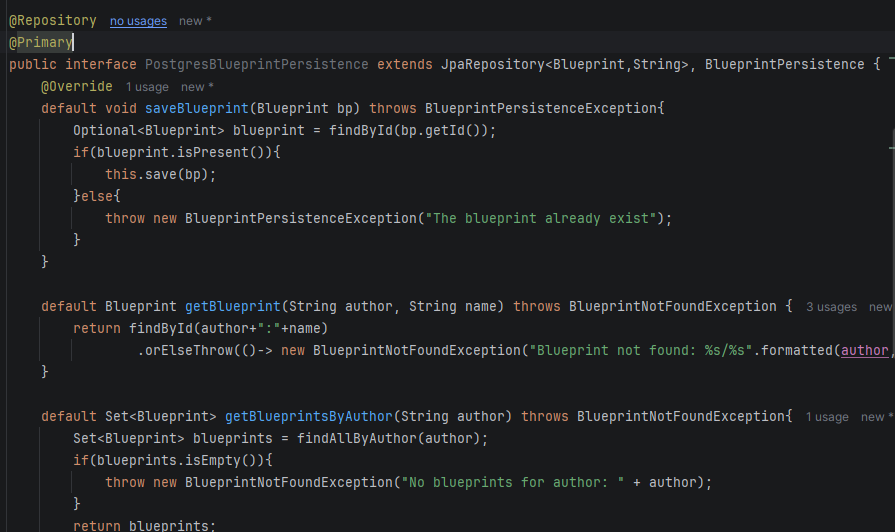
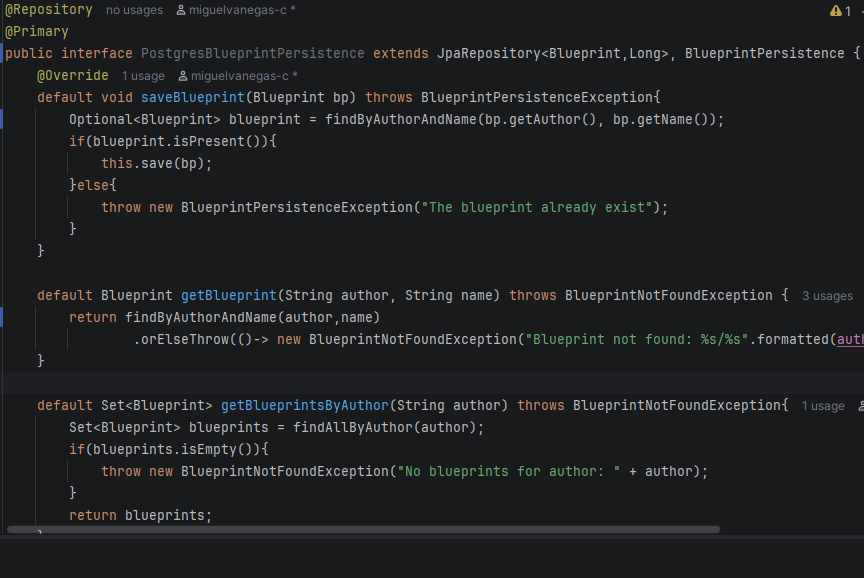
finish without test

diff --git a/src/main/java/edu/eci/arsw/blueprints/controllers/BlueprintsAPIController.java b/src/main/java/edu/eci/arsw/blueprints/controllers/BlueprintsAPIController.java
@@ -4,18 +4,19 @@ import edu.eci.arsw.blueprints.model.Blueprint;
 import edu.eci.arsw.blueprints.model.Point;
 import edu.eci.arsw.blueprints.persistence.exception.BlueprintNotFoundException;
 import edu.eci.arsw.blueprints.persistence.exception.BlueprintPersistenceException;
+import edu.eci.arsw.blueprints.response.ApiResponse;
 import edu.eci.arsw.blueprints.services.BlueprintsServices;
+import io.swagger.v3.oas.annotations.Operation;
 import jakarta.validation.Valid;
 import jakarta.validation.constraints.NotBlank;
 import org.springframework.http.HttpStatus;
-import org.springframework.http.ResponseEntity;
 import org.springframework.web.bind.annotation.*;
 
 import java.util.Map;
 import java.util.Set;
 
 @RestController
-@RequestMapping("/blueprints")
+@RequestMapping("/api/v1/blueprints")
 public class BlueprintsAPIController {
 
     private final BlueprintsServices services;
@@ -23,53 +24,62 @@ public class BlueprintsAPIController {
     public BlueprintsAPIController(BlueprintsServices services) { this.services = services; }
 
     // GET /blueprints
+    @Operation(summary = "Get all the blueprints in the system",
+            description = "Return a blueprint list")
+    @io.swagger.v3.oas.annotations.responses.ApiResponse(responseCode = "200", description = "Successful query")
     @GetMapping
-    public ResponseEntity<Set<Blueprint>> getAll() {
-        return ResponseEntity.ok(services.getAllBlueprints());
+    public ApiResponse<Set<Blueprint>> getAll() {
+        Set<Blueprint> blueprints = services.getAllBlueprints();
+        return new ApiResponse<Set<Blueprint>>(HttpStatus.OK.value(), "The query was successful.",blueprints);
     }
 
+    @io.swagger.v3.oas.annotations.responses.ApiResponse(responseCode = "200", description = "Successful query")
+    @io.swagger.v3.oas.annotations.responses.ApiResponse(responseCode = "404", description = "The author doesn't have blueprints")
+    @Operation(summary = "Get all the blueprints from an author",
+            description = "Return a blueprint list")
     // GET /blueprints/{author}
     @GetMapping("/{author}")
-    public ResponseEntity<?> byAuthor(@PathVariable String author) {
-        try {
-            return ResponseEntity.ok(services.getBlueprintsByAuthor(author));
-        } catch (BlueprintNotFoundException e) {
-            return ResponseEntity.status(HttpStatus.NOT_FOUND).body(Map.of("error", e.getMessage()));
-        }
+    public ApiResponse<Set<Blueprint>> byAuthor(@PathVariable String author) throws BlueprintNotFoundException{
+        Set<Blueprint> blueprints = services.getBlueprintsByAuthor(author);
+        return new ApiResponse<Set<Blueprint>>(HttpStatus.OK.value(), "The query was successful.",blueprints);
+
     }
 
+    @io.swagger.v3.oas.annotations.responses.ApiResponse(responseCode = "200", description = "Successful query")
+    @io.swagger.v3.oas.annotations.responses.ApiResponse(responseCode = "404", description = "The author doesn't have a blueprints with this name")
+    @Operation(summary = "Get a blueprint from an author and a specific name",
+            description = "Return a blueprint list")
     // GET /blueprints/{author}/{bpname}
     @GetMapping("/{author}/{bpname}")
-    public ResponseEntity<?> byAuthorAndName(@PathVariable String author, @PathVariable String bpname) {
-        try {
-            return ResponseEntity.ok(services.getBlueprint(author, bpname));
-        } catch (BlueprintNotFoundException e) {
-            return ResponseEntity.status(HttpStatus.NOT_FOUND).body(Map.of("error", e.getMessage()));
-        }
+    public ApiResponse<Blueprint> byAuthorAndName(@PathVariable String author, @PathVariable String bpname) throws BlueprintNotFoundException {
+        Blueprint blueprint = services.getBlueprint(author, bpname);
+        return new ApiResponse<Blueprint>(HttpStatus.OK.value(), "The query was successful.",blueprint);
+
     }
 
+    @io.swagger.v3.oas.annotations.responses.ApiResponse(responseCode = "200", description = "Successful query")
+    @io.swagger.v3.oas.annotations.responses.ApiResponse(responseCode = "400", description = "Can´t create the blueprint")
+    @Operation(summary = "Add a new blueprint",
+            description = "Return the blueprint that was added")
     // POST /blueprints
     @PostMapping
-    public ResponseEntity<?> add(@Valid @RequestBody NewBlueprintRequest req) {
-        try {
-            Blueprint bp = new Blueprint(req.author(), req.name(), req.points());
-            services.addNewBlueprint(bp);
-            return ResponseEntity.status(HttpStatus.CREATED).build();
-        } catch (BlueprintPersistenceException e) {
-            return ResponseEntity.status(HttpStatus.FORBIDDEN).body(Map.of("error", e.getMessage()));
-        }
+    public ApiResponse<Blueprint> add(@Valid @RequestBody NewBlueprintRequest req) throws BlueprintPersistenceException{
+        Blueprint bp = new Blueprint(req.author(), req.name(), req.points());
+        services.addNewBlueprint(bp);
+        return new ApiResponse<Blueprint>(HttpStatus.CREATED.value(),"The blueprint was created", bp);
     }
 
+    @io.swagger.v3.oas.annotations.responses.ApiResponse(responseCode = "200", description = "Successful query")
+    @io.swagger.v3.oas.annotations.responses.ApiResponse(responseCode = "400", description = "Can´t add the point")
+    @Operation(summary = "Add a point to a blueprints",
+            description = "Return if the operation was accepted")
     // PUT /blueprints/{author}/{bpname}/points
     @PutMapping("/{author}/{bpname}/points")
-    public ResponseEntity<?> addPoint(@PathVariable String author, @PathVariable String bpname,
-                                      @RequestBody Point p) {
-        try {
-            services.addPoint(author, bpname, p.getX(), p.getY());
-            return ResponseEntity.status(HttpStatus.ACCEPTED).build();
-        } catch (BlueprintNotFoundException e) {
-            return ResponseEntity.status(HttpStatus.NOT_FOUND).body(Map.of("error", e.getMessage()));
-        }
+    public ApiResponse<?> addPoint(@PathVariable String author, @PathVariable String bpname,
+                                      @RequestBody Point p) throws BlueprintNotFoundException{
+        services.addPoint(author, bpname, p.getX(), p.getY());
+        return new ApiResponse<>(HttpStatus.ACCEPTED.value(), "The point was added", null );
+
     }
 
     public record NewBlueprintRequest(

diff --git a/src/main/java/edu/eci/arsw/blueprints/persistence/blueprint/PostgresBlueprintPersistence.java b/src/main/java/edu/eci/arsw/blueprints/persistence/blueprint/PostgresBlueprintPersistence.java
@@ -15,10 +15,10 @@ import java.util.Set;
 
 @Repository
 @Primary
-public interface PostgresBlueprintPersistence extends JpaRepository<Blueprint,String>, BlueprintPersistence {
+public interface PostgresBlueprintPersistence extends JpaRepository<Blueprint,Long>, BlueprintPersistence {
     @Override
     default void saveBlueprint(Blueprint bp) throws BlueprintPersistenceException{
-        Optional<Blueprint> blueprint = findById(bp.getId());
+        Optional<Blueprint> blueprint = findByAuthorAndName(bp.getAuthor(), bp.getName());
         if(blueprint.isPresent()){
             this.save(bp);
         }else{
@@ -27,7 +27,7 @@ public interface PostgresBlueprintPersistence extends JpaRepository<Blueprint,St
     }
 
     default Blueprint getBlueprint(String author, String name) throws BlueprintNotFoundException {
-        return findById(author+":"+name)
+        return findByAuthorAndName(author,name)
                 .orElseThrow(()-> new BlueprintNotFoundException("Blueprint not found: %s/%s".formatted(author, name)));
     }
 
@@ -51,4 +51,5 @@ public interface PostgresBlueprintPersistence extends JpaRepository<Blueprint,St
         save(blueprint);
     }
     Set<Blueprint> findAllByAuthor(String author);
+    Optional<Blueprint> findByAuthorAndName(String author, String name);
 }

diff --git a/src/main/java/edu/eci/arsw/blueprints/response/ExceptionController.java b/src/main/java/edu/eci/arsw/blueprints/response/ExceptionController.java
@@ -1,0 +1,25 @@
+package edu.eci.arsw.blueprints.response;
+
+import edu.eci.arsw.blueprints.persistence.exception.BlueprintNotFoundException;
+import edu.eci.arsw.blueprints.persistence.exception.BlueprintPersistenceException;
+import org.springframework.http.HttpStatus;
+import org.springframework.web.bind.annotation.ExceptionHandler;
+import org.springframework.web.bind.annotation.RestControllerAdvice;
+
+@RestControllerAdvice
+public class ExceptionController {
+    @ExceptionHandler(BlueprintNotFoundException.class)
+    public ApiResponse<?> handleResponsibleNotFound(RuntimeException ex) {
+        return response(ex, HttpStatus.NOT_FOUND);
+    }
+
+    @ExceptionHandler(BlueprintPersistenceException.class)
+    public ApiResponse<?> handleResponsibleBadRequest(RuntimeException ex){
+        return response(ex, HttpStatus.BAD_REQUEST);
+    }
+
+    private ApiResponse<?> response(RuntimeException ex, HttpStatus status){
+        return new ApiResponse<String>(status.value(),"An exception occurred during execution.",ex.getMessage());
+    }
+
+}

diff --git a/src/main/java/edu/eci/arsw/blueprints/model/Blueprint.java b/src/main/java/edu/eci/arsw/blueprints/model/Blueprint.java
@@ -1,31 +1,27 @@
 package edu.eci.arsw.blueprints.model;
 
-import jakarta.persistence.Entity;
-import jakarta.persistence.GeneratedValue;
-import jakarta.persistence.Id;
-import jakarta.persistence.OneToMany;
-import lombok.AllArgsConstructor;
+import jakarta.persistence.*;
+
 import lombok.Data;
-import lombok.NoArgsConstructor;
+
 
 import java.util.ArrayList;
 import java.util.Collections;
 import java.util.List;
-import java.util.Objects;
+
 
 @Entity
 @Data
 public class Blueprint {
 
     @Id
-    private String id;
+    private Long id;
     private String author;
     private String name;
-    @OneToMany(mappedBy = "blueprint, cascade = cascade")
+    @OneToMany(mappedBy = "blueprint", cascade = CascadeType.ALL, orphanRemoval = true)
     private List<Point> points = new ArrayList<>();
 
     public Blueprint(String author, String name, List<Point> points){
-        this.id = author + ":" + name;
         this.author = author;
         this.name = name;
         this.points.addAll(points);

diff --git a/src/main/java/edu/eci/arsw/blueprints/filters/RedundancyFilter.java b/src/main/java/edu/eci/arsw/blueprints/filters/RedundancyFilter.java
@@ -22,7 +22,7 @@ public class RedundancyFilter implements BlueprintsFilter {
         List<Point> out = new ArrayList<>();
         Point prev = null;
         for (Point p : in) {
-            if (prev == null || !(prev.x()==p.x() && prev.y()==p.y())) {
+            if (prev == null || !(prev.getX()==p.getX() && prev.getY()==p.getY())) {
                 out.add(p);
                 prev = p;
             }

diff --git a/src/main/java/edu/eci/arsw/blueprints/response/ApiResponse.java b/src/main/java/edu/eci/arsw/blueprints/response/ApiResponse.java
@@ -1,0 +1,5 @@
+package edu.eci.arsw.blueprints.response;
+
+public record ApiResponse<T>(int code, String message, T data) {
+
+}

diff --git a/README.md b/README.md
@@ -106,13 +106,24 @@ src/main/java/edu/eci/arsw/blueprints
         como el desacople del sistema.
       ![PostgresBlueprintPersistence](img_5.png)
     
-    - También fue necesario realizar algunos cambios en las clases de Bluesprint y point para que la implementación funcione correctamente.
-        1. Se modifico primero 
-    
+    - También fue necesario realizar algunos cambios en las clases de Blueprint y point para que la implementación funcione correctamente.
+        1. Se modificó primero Point debido a que íbamos a usar una base de datos en postgres se podía llegar a tener problemas en caso de que
+        Se mantuviera como un record, se hizo el cambio a una clase, se le añadio la anotación de entity, NoArgsConstructor, se construyo el campo id y se hizo la relación con Blueprint.
+        
+        ![NewPoint](img_6.png)
+
+        2. Después se modificó blueprint con un proceso parecido al de Point, con la diferencia que la relación con point se marcó de uno a muchos,
+        también se construyó el campo id.
+      
+        ![NewBlueprint](img_7.png)
+        
   
 
 ### 3. Buenas prácticas de API REST
 - Cambia el path base de los controladores a `/api/v1/blueprints`.  
+    
+![NewPath](img_8.png)
+
 - Usa **códigos HTTP** correctos:  
   - `200 OK` (consultas exitosas).  
   - `201 Created` (creación).  
@@ -131,11 +142,36 @@ src/main/java/edu/eci/arsw/blueprints
     "data": { "author": "john", "name": "house", "points": [...] }
   }
   ```
+  - Para cumplir con buenas prácticas de API REST, se realizaron los siguientes campos:
+    1. Primero se creó una clase que maneje las excepciones y sus respuestas, dependiendo la excepción la toma y crea un APIResponse,  
+
+    ![ExceptionController](img_9.png)
+  
+    2. Para que las respuestas de las excepciones funcionen, también se modifico el BlueprintsAPIController, ya que en vez de manejar
+        las excepciones las propaga.
+    3. Aparte en el controller se modifico la manera en la que devuelven las respuestas y se redujo la cantidad de codigo, ya que dejo de ser
+        necesario su manejo.
+    
+    ![NewResponse](img_10.png)
+    
 
 ### 4. OpenAPI / Swagger
-- Configura `springdoc-openapi` en el proyecto.  
+- Configura `springdoc-openapi` en el proyecto.
 - Expón documentación automática en `/swagger-ui.html`.  
 - Anota endpoints con `@Operation` y `@ApiResponse`.
+    
+    1. Se busca y se agrega la dependencia con la version más actual, compatible con la versión usada de springboot:
+    
+        ![swaggerDependency](img_11.png)
+  
+    2. Una vez agregada se valida que se esté generando correctamente, construyendo el docker y entrando a la url:
+  
+        ![swaggerview](img_12.png)
+    
+    3. Se agregaron las respectivas anotaciones y se personalizó una pequeña parte de la documentación.
+    
+        ![swaggerPersonalization](img_13.png)
+    
 
 ### 5. Filtros de *Blueprints*
 - Implementa filtros:
@@ -144,6 +180,9 @@ src/main/java/edu/eci/arsw/blueprints
 - Activa los filtros mediante perfiles de Spring (`redundancy`, `undersampling`).  
 
 ---
+- Los filtros ya se encuentran implementados, se realiza la activación por medio del properties.
+    
+    ![filtros](img_14.png)    
 
 ## ✅ Entregables
 
